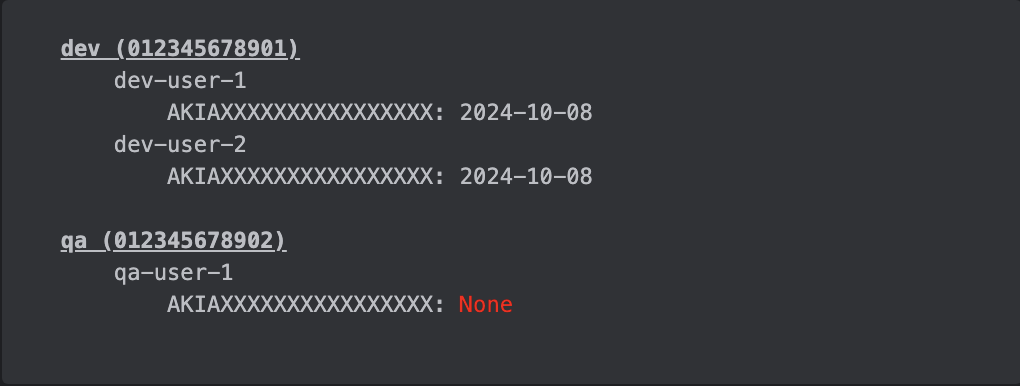
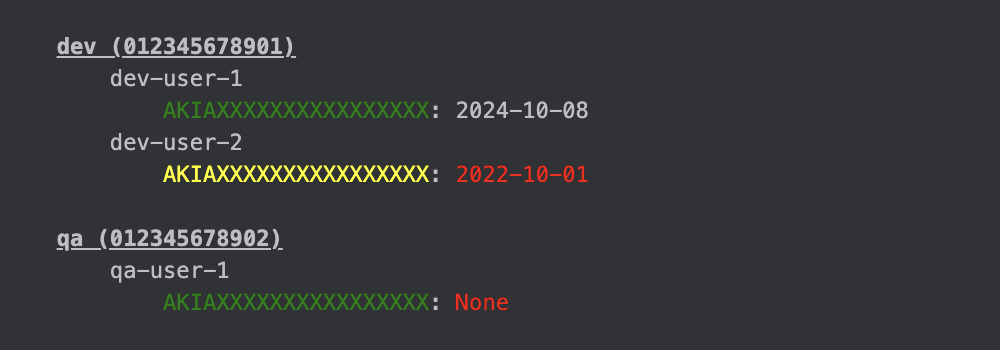
Add status flagging and other much needed improvements

Changed region(s): [[0.031, 0.0857, 0.589, 0.5429], [0.031, 0.6, 0.527, 0.8857]]

diff --git a/README.md b/README.md
@@ -9,39 +9,58 @@ AWS profiles should already be configured on the machine.
 ## Usage
 
 ### Options
-    -p, --profiles   Comma-separated list of AWS profiles (default: ( default ))"
-    -r, --region     AWS region (default: us-east-1)"
-    --raw            Disable all formatting"
-    --raw-with-old   Disable all formatting except signify old"
-    -h, --help       Display this help message"
+    -p, --profiles                    Comma-separated list of AWS profiles (default: '${OUR_AWS_PROFILES[*]}')"
+    -r, --region                      AWS region (default: '$OUR_AWS_REGION')"
+    --pretty                          Enable pretty formatting"
+    --ignore-inactive                 Ignore inactive access keys"
+    --show-users-without-keys         Show users without access keys"
+    --disable-age-flags               Disable old key age flags"
+    --disable-status-flags            Disable active/inactive key flags"
+    --disable-all-flags               Disable both age and status flags"
+    -h, --help                        Display this help message"
 
 ### Examples
 - `./iam_keys_audit.sh -p dev,qa`
-
-    ![key_audit_pretty.png](img/key_audit_pretty.png)
-
-- `./iam_keys_audit.sh -p dev,qa --raw-with-old`
 
     ```
     dev (012345678901)
         dev-user-1
             AKIAXXXXXXXXXXXXXXXX: 2024-10-08
         dev-user-2
-            AKIAXXXXXXXXXXXXXXXX: 2024-10-08
+            AKIAXXXXXXXXXXXXXXXX: 2022-10-01 (I) *
     qa (012345678902)
         qa-user-1
             AKIAXXXXXXXXXXXXXXXX: None *
     ```
 
-- `./iam_keys_audit.sh -p dev,qa --raw`
+- `./iam_keys_audit.sh -p dev,qa --ignore-inactive`
+
+    ```
+    dev (012345678901)
+        dev-user-1
+            AKIAXXXXXXXXXXXXXXXX: 2024-10-08
+    qa (012345678902)
+        qa-user-1
+            AKIAXXXXXXXXXXXXXXXX: None *
+    ```
+  
+- `./iam_keys_audit.sh -p dev,qa --disable-all-flags`
 
     ```
     dev (012345678901)
         dev-user-1
             AKIAXXXXXXXXXXXXXXXX: 2024-10-08
         dev-user-2
-            AKIAXXXXXXXXXXXXXXXX: 2024-10-08
+            AKIAXXXXXXXXXXXXXXXX: 2022-10-01
     qa (012345678902)
         qa-user-1
             AKIAXXXXXXXXXXXXXXXX: None
     ```
+  
+- `./iam_keys_audit.sh -p dev,qa --pretty`
+
+  ![key_audit_pretty.png](img/key_audit_pretty.png)
+
+- `./iam_keys_audit.sh -p dev,qa --pretty --ignore-inactive --disable-status-flags`
+
+  ![key_audit_pretty_filtered.png](img/key_audit_pretty_filtered.png)
